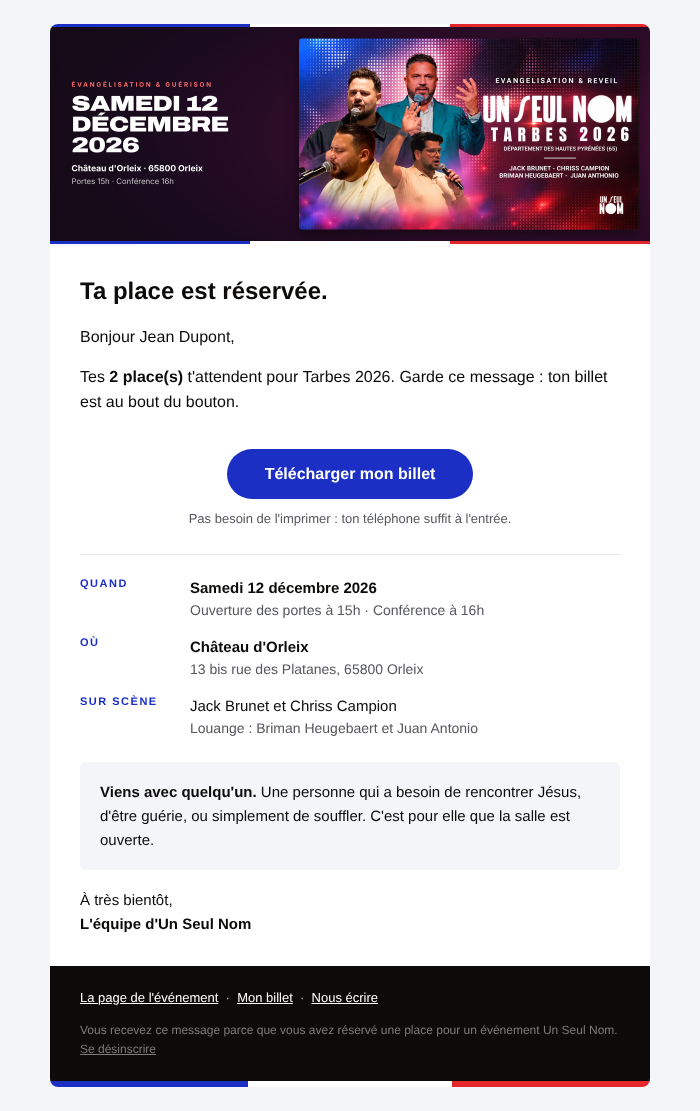
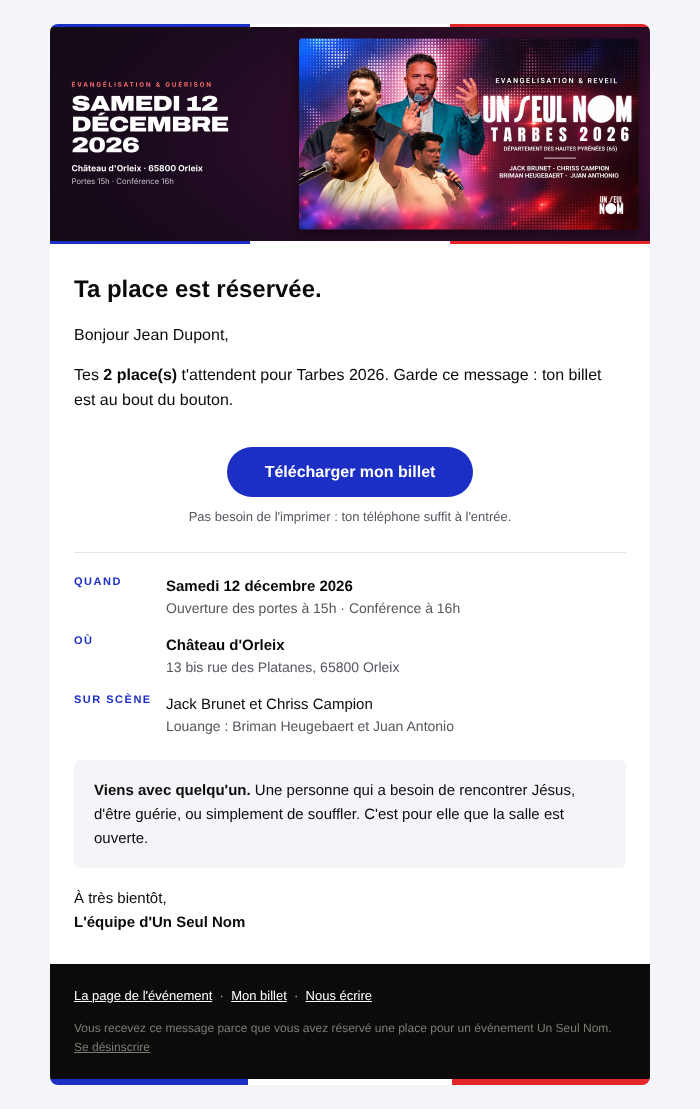
Le courriel retrecit vraiment sur un telephone
Jack a regarde l'apercu de Brevo : le message depassait a droite et le
bouton etait coupe.

La premiere version posait « width=600 » sur le tableau principal.
Beaucoup de messageries tiennent l'attribut HTML pour une consigne
absolue et refusent de retrecir — le style « max-width » ne pesait
rien contre lui.

Le tableau passe a 100 %, plafonne a 600 pixels par le style. Outlook
pour Windows ignore « max-width » : il lit a la place un tableau
fantome en commentaire conditionnel, qui le tient a 600. Les marges
interieures passent de 30 a 24 pixels, et la colonne des intitules de
110 a 92 : a 320 pixels de large, elles mangeaient un cinquieme de
l'ecran.

Mesure : zero pixel de debordement a 700, 375 et 320 pixels.

L'image de la banniere, elle, n'est pas en cause : elle repond 200 en
image/jpeg, y compris avec le referent de Brevo et celui de Gmail.
C'est l'apercu de Brevo qui ne charge pas les images externes.

Claude-Session: https://claude.ai/code/session_016p7GoBVLbTFAFLN7eDfwqS

diff --git a/unseulnom/courriels/confirmation-tarbes-a-coller.html b/unseulnom/courriels/confirmation-tarbes-a-coller.html
@@ -9,20 +9,32 @@
   ═══════════════════════════════════════════════════════════════════
   COURRIEL DE CONFIRMATION — UN SEUL NOM · TARBES 2026
 
-  PRET A COLLER. Les deux adresses sont deja remplies et verifiees :
-  le billet PDF et la banniere repondent bien, et sont servis dans le
-  bon format.
+  PRET A COLLER. Les deux adresses sont deja remplies et verifiees.
 
-  A coller dans Brevo : Campagnes -> Modeles -> Creer un modele ->
+  A coller dans Brevo : Marketing -> Templates -> Creer un template ->
   « Coder le votre ». Puis choisir ce modele dans l'etape « Envoyer un
   email » de l'automatisation.
   ═══════════════════════════════════════════════════════════════════
 -->
 <body style="margin:0;padding:0;background:#F4F5F9;">
 <table role="presentation" width="100%" cellpadding="0" cellspacing="0" border="0" style="background:#F4F5F9;">
-<tr><td align="center" style="padding:24px 12px;">
+<tr><td align="center" style="padding:24px 10px;">
 
-  <table role="presentation" width="600" cellpadding="0" cellspacing="0" border="0" style="width:600px;max-width:100%;background:#ffffff;border-radius:8px;overflow:hidden;">
+  <!--
+    LA LARGEUR EST FLUIDE, PAS FIXE.
+
+    La premiere version posait « width=600 » sur ce tableau : beaucoup
+    de messageries tiennent l'attribut HTML pour une consigne absolue
+    et refusent de retrecir. Sur un telephone, le message depassait a
+    droite et le bouton etait coupe.
+
+    Le tableau est donc a 100 %, plafonne a 600 pixels par le style.
+    Outlook pour Windows, lui, ignore « max-width » — d'ou le tableau
+    fantome ci-dessous, qu'il est le seul a lire, et qui le tient a
+    600 pixels.
+  -->
+  <!--[if mso]><table role="presentation" width="600" cellpadding="0" cellspacing="0" border="0"><tr><td><![endif]-->
+  <table role="presentation" width="100%" cellpadding="0" cellspacing="0" border="0" style="width:100%;max-width:600px;background:#ffffff;border-radius:8px;overflow:hidden;">
 
     <!-- LA BANNIERE.
          Elle porte deja le bandeau tricolore et le nom de la ville. Si
@@ -34,7 +46,7 @@
     </td></tr>
 
     <!-- le corps -->
-    <tr><td style="padding:32px 30px 8px;">
+    <tr><td style="padding:30px 24px 8px;">
       <p style="margin:0;font-family:Arial,Helvetica,sans-serif;font-size:24px;font-weight:bold;line-height:1.25;color:#0C0B0A;">
         Ta place est r&eacute;serv&eacute;e.
       </p>
@@ -48,7 +60,7 @@
     </td></tr>
 
     <!-- le bouton -->
-    <tr><td align="center" style="padding:26px 30px 6px;">
+    <tr><td align="center" style="padding:26px 24px 6px;">
       <table role="presentation" cellpadding="0" cellspacing="0" border="0"><tr>
         <td align="center" bgcolor="#1B2FC4" style="border-radius:999px;">
           <a href="https://unseulnom.org/wp-content/uploads/2026/10/billet-un-seul-nom-tarbes.pdf"
@@ -63,27 +75,27 @@
     </td></tr>
 
     <!-- les informations pratiques -->
-    <tr><td style="padding:22px 30px 0;">
+    <tr><td style="padding:22px 24px 0;">
       <table role="presentation" width="100%" cellpadding="0" cellspacing="0" border="0" style="border-top:1px solid #E2E4EE;">
         <tr><td style="padding:22px 0 0;">
 
           <table role="presentation" width="100%" cellpadding="0" cellspacing="0" border="0">
             <tr>
-              <td width="110" valign="top" style="padding:0 0 14px;font-family:Arial,Helvetica,sans-serif;font-size:11px;font-weight:bold;letter-spacing:1.5px;text-transform:uppercase;color:#1B2FC4;">Quand</td>
+              <td width="92" valign="top" style="padding:0 0 14px;font-family:Arial,Helvetica,sans-serif;font-size:11px;font-weight:bold;letter-spacing:1.5px;text-transform:uppercase;color:#1B2FC4;">Quand</td>
               <td valign="top" style="padding:0 0 14px;font-family:Arial,Helvetica,sans-serif;font-size:15px;line-height:1.5;color:#0C0B0A;">
                 <strong>Samedi 12 d&eacute;cembre 2026</strong><br>
                 <span style="color:#55565E;font-size:14px;">Ouverture des portes &agrave; 15h &middot; Conf&eacute;rence &agrave; 16h</span>
               </td>
             </tr>
             <tr>
-              <td width="110" valign="top" style="padding:0 0 14px;font-family:Arial,Helvetica,sans-serif;font-size:11px;font-weight:bold;letter-spacing:1.5px;text-transform:uppercase;color:#1B2FC4;">O&ugrave;</td>
+              <td width="92" valign="top" style="padding:0 0 14px;font-family:Arial,Helvetica,sans-serif;font-size:11px;font-weight:bold;letter-spacing:1.5px;text-transform:uppercase;color:#1B2FC4;">O&ugrave;</td>
               <td valign="top" style="padding:0 0 14px;font-family:Arial,Helvetica,sans-serif;font-size:15px;line-height:1.5;color:#0C0B0A;">
                 <strong>Ch&acirc;teau d'Orleix</strong><br>
                 <span style="color:#55565E;font-size:14px;">13 bis rue des Platanes, 65800 Orleix</span>
               </td>
             </tr>
             <tr>
-              <td width="110" valign="top" style="padding:0 0 14px;font-family:Arial,Helvetica,sans-serif;font-size:11px;font-weight:bold;letter-spacing:1.5px;text-transform:uppercase;color:#1B2FC4;">Sur sc&egrave;ne</td>
+              <td width="92" valign="top" style="padding:0 0 14px;font-family:Arial,Helvetica,sans-serif;font-size:11px;font-weight:bold;letter-spacing:1.5px;text-transform:uppercase;color:#1B2FC4;">Sur sc&egrave;ne</td>
               <td valign="top" style="padding:0 0 14px;font-family:Arial,Helvetica,sans-serif;font-size:15px;line-height:1.5;color:#0C0B0A;">
                 Jack Brunet et Chriss Campion<br>
                 <span style="color:#55565E;font-size:14px;">Louange&nbsp;: Briman Heugebaert et Juan Antonio</span>
@@ -96,7 +108,7 @@
     </td></tr>
 
     <!-- l'invitation -->
-    <tr><td style="padding:8px 30px 30px;">
+    <tr><td style="padding:8px 24px 30px;">
       <table role="presentation" width="100%" cellpadding="0" cellspacing="0" border="0" style="background:#F4F5F9;border-radius:6px;">
         <tr><td style="padding:18px 20px;font-family:Arial,Helvetica,sans-serif;font-size:15px;line-height:1.6;color:#0C0B0A;">
           <strong>Viens avec quelqu'un.</strong> Une personne qui a besoin de rencontrer
@@ -111,7 +123,7 @@
     </td></tr>
 
     <!-- pied de page -->
-    <tr><td style="background:#0C0B0A;padding:22px 30px;">
+    <tr><td style="background:#0C0B0A;padding:22px 24px;">
       <p style="margin:0;font-family:Arial,Helvetica,sans-serif;font-size:13px;line-height:1.6;color:#b9b9b6;">
         <a href="https://unseulnom.org/evenement/tarbes/" style="color:#ffffff;text-decoration:underline;">La page de l'&eacute;v&eacute;nement</a>
         &nbsp;&middot;&nbsp;
@@ -135,6 +147,7 @@
     </td></tr>
 
   </table>
+  <!--[if mso]></td></tr></table><![endif]-->
 
 </td></tr>
 </table>

diff --git a/unseulnom/courriels/confirmation-tarbes.html b/unseulnom/courriels/confirmation-tarbes.html
@@ -25,9 +25,23 @@
 -->
 <body style="margin:0;padding:0;background:#F4F5F9;">
 <table role="presentation" width="100%" cellpadding="0" cellspacing="0" border="0" style="background:#F4F5F9;">
-<tr><td align="center" style="padding:24px 12px;">
+<tr><td align="center" style="padding:24px 10px;">
 
-  <table role="presentation" width="600" cellpadding="0" cellspacing="0" border="0" style="width:600px;max-width:100%;background:#ffffff;border-radius:8px;overflow:hidden;">
+  <!--
+    LA LARGEUR EST FLUIDE, PAS FIXE.
+
+    La premiere version posait « width=600 » sur ce tableau : beaucoup
+    de messageries tiennent l'attribut HTML pour une consigne absolue
+    et refusent de retrecir. Sur un telephone, le message depassait a
+    droite et le bouton etait coupe.
+
+    Le tableau est donc a 100 %, plafonne a 600 pixels par le style.
+    Outlook pour Windows, lui, ignore « max-width » — d'ou le tableau
+    fantome ci-dessous, qu'il est le seul a lire, et qui le tient a
+    600 pixels.
+  -->
+  <!--[if mso]><table role="presentation" width="600" cellpadding="0" cellspacing="0" border="0"><tr><td><![endif]-->
+  <table role="presentation" width="100%" cellpadding="0" cellspacing="0" border="0" style="width:100%;max-width:600px;background:#ffffff;border-radius:8px;overflow:hidden;">
 
     <!-- LA BANNIERE.
          Elle porte deja le bandeau tricolore et le nom de la ville. Si
@@ -39,7 +53,7 @@
     </td></tr>
 
     <!-- le corps -->
-    <tr><td style="padding:32px 30px 8px;">
+    <tr><td style="padding:30px 24px 8px;">
       <p style="margin:0;font-family:Arial,Helvetica,sans-serif;font-size:24px;font-weight:bold;line-height:1.25;color:#0C0B0A;">
         Ta place est r&eacute;serv&eacute;e.
       </p>
@@ -53,7 +67,7 @@
     </td></tr>
 
     <!-- le bouton -->
-    <tr><td align="center" style="padding:26px 30px 6px;">
+    <tr><td align="center" style="padding:26px 24px 6px;">
       <table role="presentation" cellpadding="0" cellspacing="0" border="0"><tr>
         <td align="center" bgcolor="#1B2FC4" style="border-radius:999px;">
           <a href="__ADRESSE_DU_BILLET__"
@@ -68,27 +82,27 @@
     </td></tr>
 
     <!-- les informations pratiques -->
-    <tr><td style="padding:22px 30px 0;">
+    <tr><td style="padding:22px 24px 0;">
       <table role="presentation" width="100%" cellpadding="0" cellspacing="0" border="0" style="border-top:1px solid #E2E4EE;">
         <tr><td style="padding:22px 0 0;">
 
           <table role="presentation" width="100%" cellpadding="0" cellspacing="0" border="0">
             <tr>
-              <td width="110" valign="top" style="padding:0 0 14px;font-family:Arial,Helvetica,sans-serif;font-size:11px;font-weight:bold;letter-spacing:1.5px;text-transform:uppercase;color:#1B2FC4;">Quand</td>
+              <td width="92" valign="top" style="padding:0 0 14px;font-family:Arial,Helvetica,sans-serif;font-size:11px;font-weight:bold;letter-spacing:1.5px;text-transform:uppercase;color:#1B2FC4;">Quand</td>
               <td valign="top" style="padding:0 0 14px;font-family:Arial,Helvetica,sans-serif;font-size:15px;line-height:1.5;color:#0C0B0A;">
                 <strong>Samedi 12 d&eacute;cembre 2026</strong><br>
                 <span style="color:#55565E;font-size:14px;">Ouverture des portes &agrave; 15h &middot; Conf&eacute;rence &agrave; 16h</span>
               </td>
             </tr>
             <tr>
-              <td width="110" valign="top" style="padding:0 0 14px;font-family:Arial,Helvetica,sans-serif;font-size:11px;font-weight:bold;letter-spacing:1.5px;text-transform:uppercase;color:#1B2FC4;">O&ugrave;</td>
+              <td width="92" valign="top" style="padding:0 0 14px;font-family:Arial,Helvetica,sans-serif;font-size:11px;font-weight:bold;letter-spacing:1.5px;text-transform:uppercase;color:#1B2FC4;">O&ugrave;</td>
               <td valign="top" style="padding:0 0 14px;font-family:Arial,Helvetica,sans-serif;font-size:15px;line-height:1.5;color:#0C0B0A;">
                 <strong>Ch&acirc;teau d'Orleix</strong><br>
                 <span style="color:#55565E;font-size:14px;">13 bis rue des Platanes, 65800 Orleix</span>
               </td>
             </tr>
             <tr>
-              <td width="110" valign="top" style="padding:0 0 14px;font-family:Arial,Helvetica,sans-serif;font-size:11px;font-weight:bold;letter-spacing:1.5px;text-transform:uppercase;color:#1B2FC4;">Sur sc&egrave;ne</td>
+              <td width="92" valign="top" style="padding:0 0 14px;font-family:Arial,Helvetica,sans-serif;font-size:11px;font-weight:bold;letter-spacing:1.5px;text-transform:uppercase;color:#1B2FC4;">Sur sc&egrave;ne</td>
               <td valign="top" style="padding:0 0 14px;font-family:Arial,Helvetica,sans-serif;font-size:15px;line-height:1.5;color:#0C0B0A;">
                 Jack Brunet et Chriss Campion<br>
                 <span style="color:#55565E;font-size:14px;">Louange&nbsp;: Briman Heugebaert et Juan Antonio</span>
@@ -101,7 +115,7 @@
     </td></tr>
 
     <!-- l'invitation -->
-    <tr><td style="padding:8px 30px 30px;">
+    <tr><td style="padding:8px 24px 30px;">
       <table role="presentation" width="100%" cellpadding="0" cellspacing="0" border="0" style="background:#F4F5F9;border-radius:6px;">
         <tr><td style="padding:18px 20px;font-family:Arial,Helvetica,sans-serif;font-size:15px;line-height:1.6;color:#0C0B0A;">
           <strong>Viens avec quelqu'un.</strong> Une personne qui a besoin de rencontrer
@@ -116,7 +130,7 @@
     </td></tr>
 
     <!-- pied de page -->
-    <tr><td style="background:#0C0B0A;padding:22px 30px;">
+    <tr><td style="background:#0C0B0A;padding:22px 24px;">
       <p style="margin:0;font-family:Arial,Helvetica,sans-serif;font-size:13px;line-height:1.6;color:#b9b9b6;">
         <a href="https://unseulnom.org/evenement/tarbes/" style="color:#ffffff;text-decoration:underline;">La page de l'&eacute;v&eacute;nement</a>
         &nbsp;&middot;&nbsp;
@@ -140,6 +154,7 @@
     </td></tr>
 
   </table>
+  <!--[if mso]></td></tr></table><![endif]-->
 
 </td></tr>
 </table>
